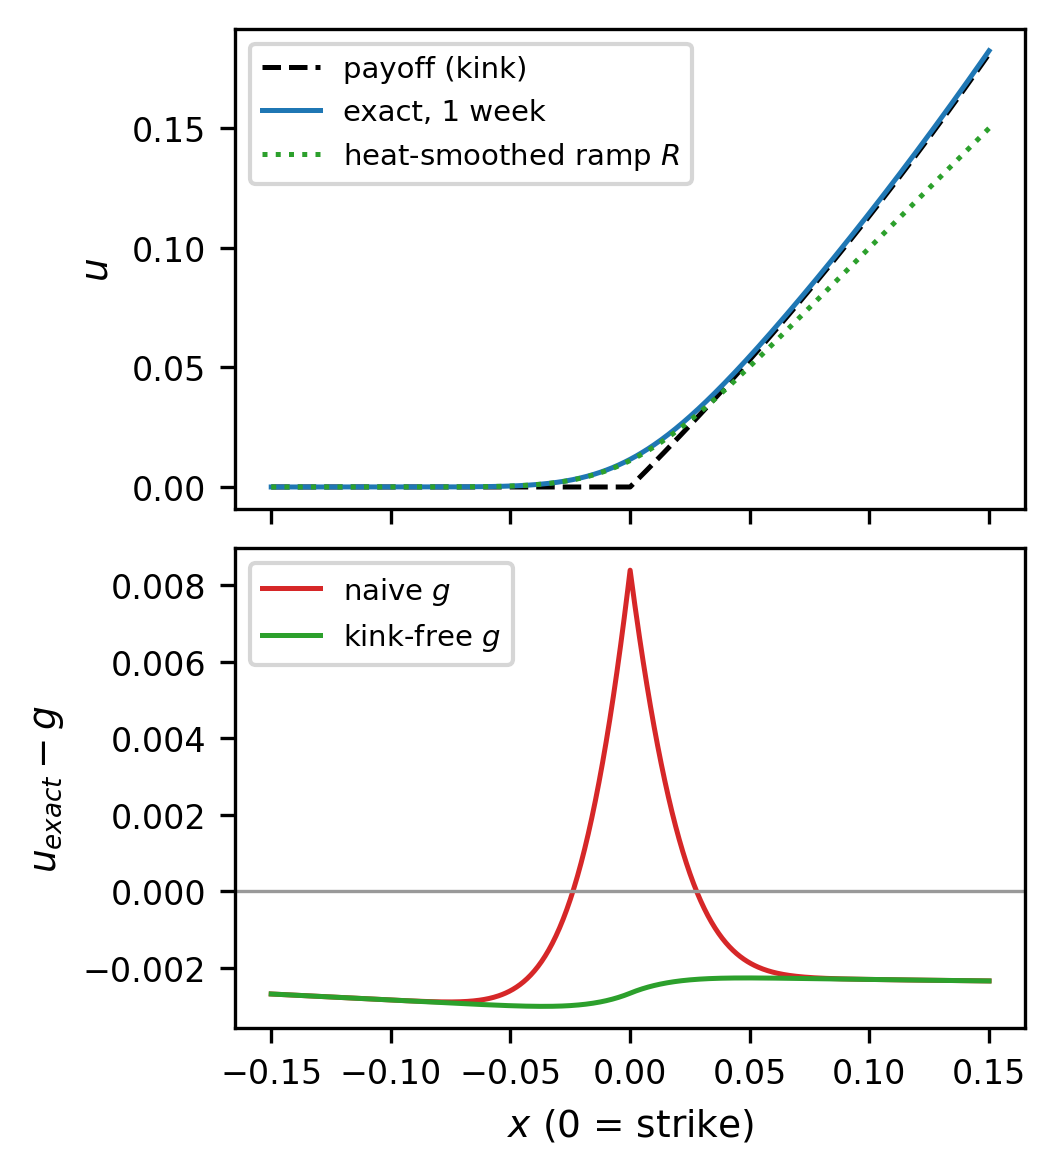
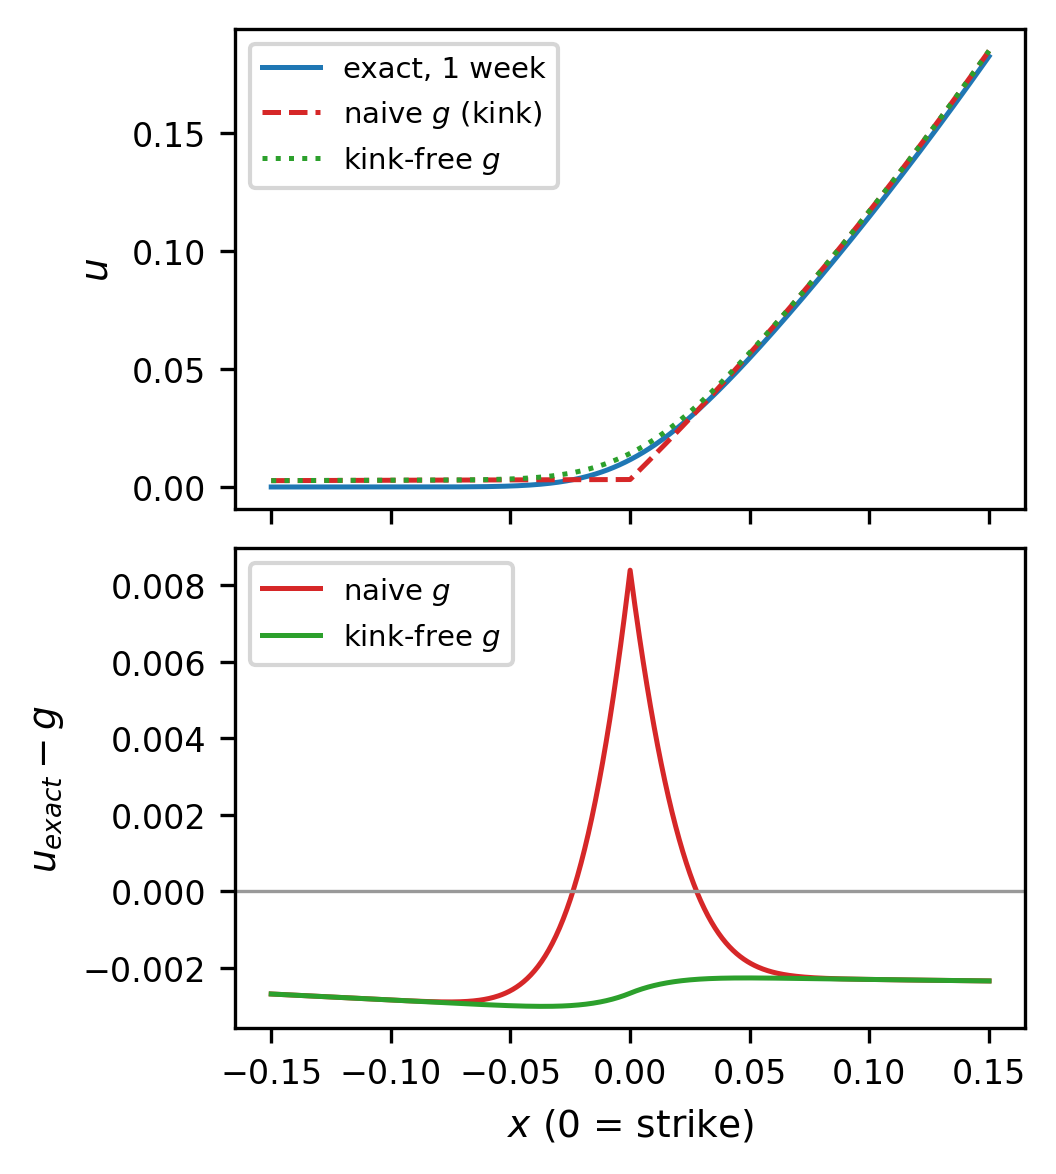
Plot the full naive g and kink-free g.

diff --git a/Code/parts/part_c/kink_decomposition.py b/Code/parts/part_c/kink_decomposition.py
@@ -4,7 +4,7 @@ import jax.numpy as jnp
 import matplotlib.pyplot as plt
 
 from src.problems import (L, SEED, sigma, tau_max, t1, t2, bs_initial, bs_left_boundary, bs_right_boundary,
-                          bs_exact, ramp_heat)
+                          bs_exact)
 from src.network import create_layers, to_jax
 from src.costs import trial_solution, kink_free_g
 from src.plotting import save_fig
@@ -36,9 +36,10 @@ x = np.linspace(-0.15, 0.15, 601)
 u_exact = bs_exact(x, tau)
 
 fig, axes = plt.subplots(2, 1, figsize=(3.4, 3.8), sharex=True)
-axes[0].plot(x, np.asarray(bs_initial(x)), "k--", label="payoff (kink)")
+# The two g's themselves, so each curve below is the exact solution minus the curve of the same colour here.
 axes[0].plot(x, u_exact, color="tab:blue", label="exact, 1 week")
-axes[0].plot(x, np.asarray(ramp_heat(x, tau)), color="tab:green", ls=":", label="heat-smoothed ramp $R$")
+axes[0].plot(x, g_naive(x, tau), color="tab:red", ls="--", label="naive $g$ (kink)")
+axes[0].plot(x, g_kink_free(x, tau), color="tab:green", ls=":", label="kink-free $g$")
 axes[0].set_ylabel(r"$u$")
 axes[0].legend(fontsize=7, loc="upper left")
 
